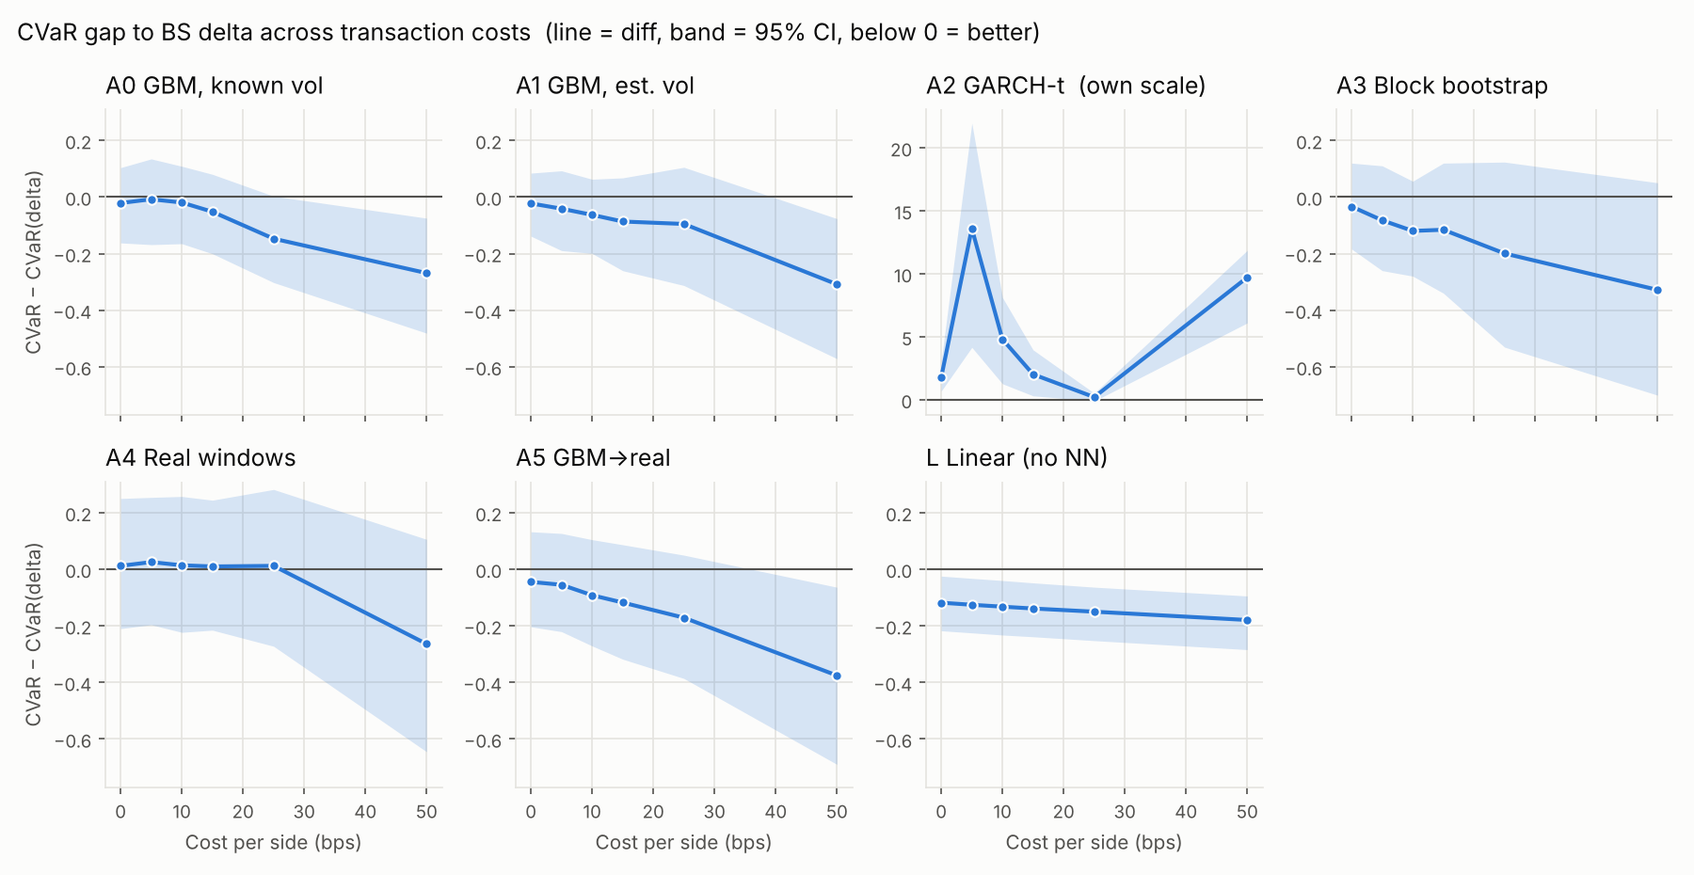
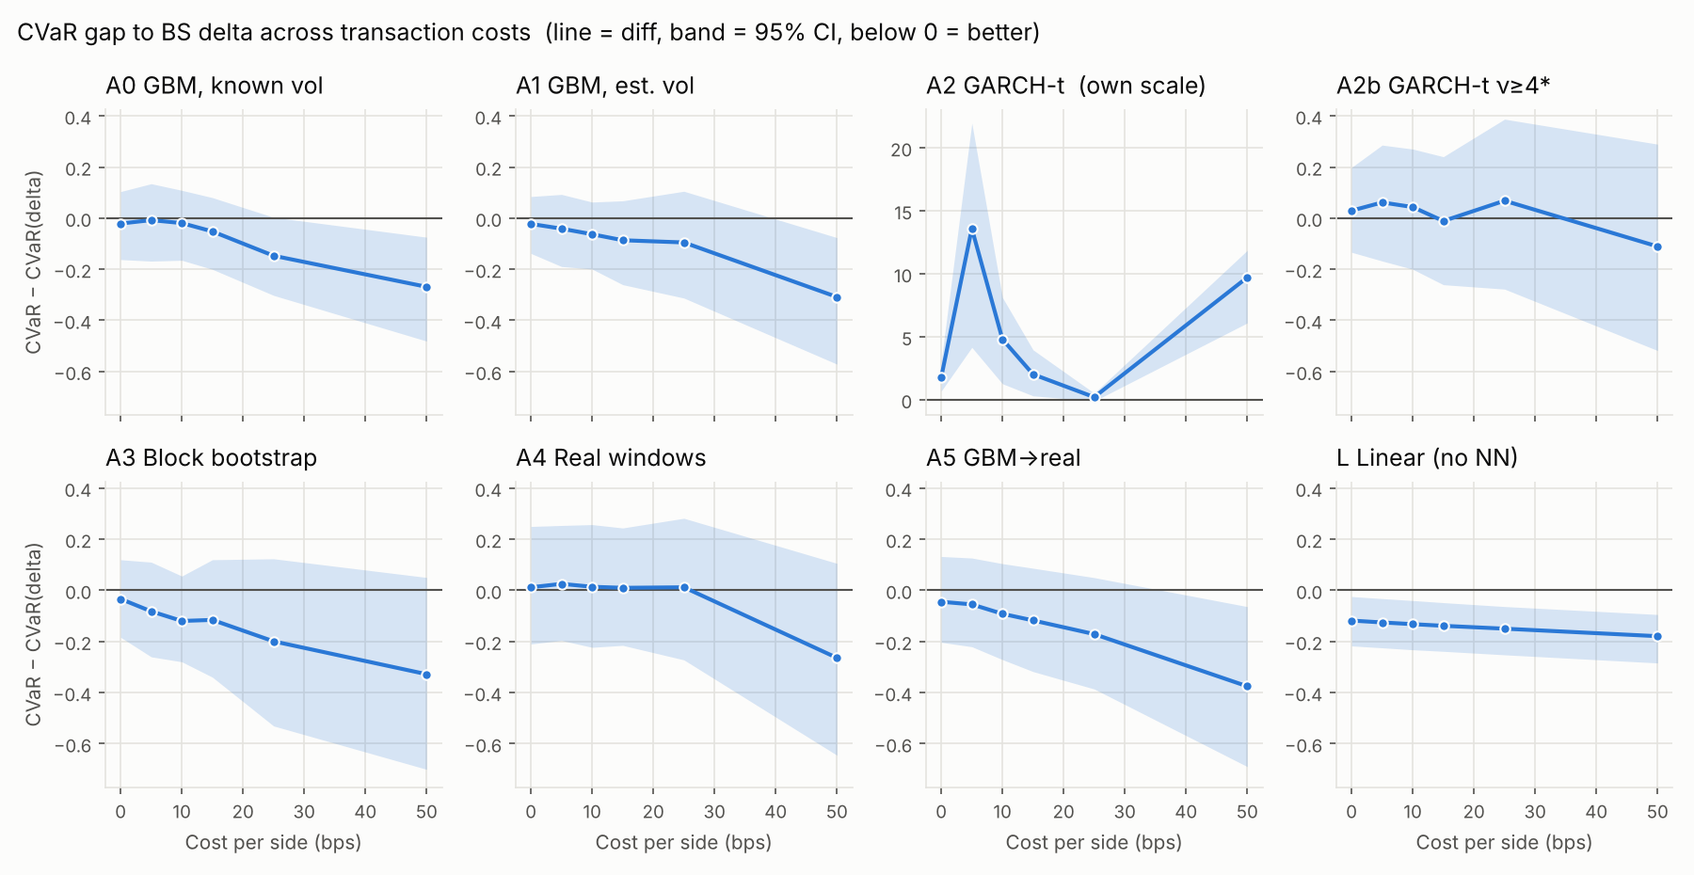
feat: A2b GARCH-t (nu >= 4) sensitivity arm, merged into training-data results
Post hoc, motivated only by the pre-year realism check (kurtosis 136 vs 6.7).
A1 rerun reproduces exactly; A2b is stable and ties BS delta at 15 bps.

Claude-Session: https://claude.ai/code/session_01Wsp5yzbyVWcP9FCYgqxdfC

diff --git a/src/deephedge/experiments/training_data_study.py b/src/deephedge/experiments/training_data_study.py
@@ -35,9 +35,13 @@ from deephedge.sim.generators import (
 )
 
 ARMS = ("A0_gbm_true_vol", "A1_gbm", "A2_garch_t", "A3_bootstrap", "A4_real", "A5_finetune")
+# Sensitivity arm added after the pre-registered run: GARCH-t with Student-t dof >= 4
+# (finite shock kurtosis), motivated only by the pre-year realism check.
+SENSITIVITY = ("A2b_garch_nu4",)
+ALL_ARMS = ARMS + SENSITIVITY
 BENCHMARKS = ("delta", "banded_delta", "no_hedge", "L_linear")
 K, T, HORIZON = 100.0, 21 / TRADING_DAYS, 21
-SYNTHETIC = ("A0_gbm_true_vol", "A1_gbm", "A2_garch_t", "A3_bootstrap")
+SYNTHETIC = ("A0_gbm_true_vol", "A1_gbm", "A2_garch_t", "A3_bootstrap", "A2b_garch_nu4")
 
 
 def _no_hedge(feats):
@@ -66,7 +70,7 @@ def _training_sets(f: dict, n_train: int, mean_block: float, seed: int) -> dict:
     real: Windows = f["real_train"]
     rets = {k: v for k, v in f["returns"].items() if len(v) >= N_DAYS}
     vols = real.trailing_vol
-    sets = {a: None for a in ARMS}
+    sets = {a: None for a in ALL_ARMS}
     if len(real) and len(vols):
         sig = rng.choice(vols, n_train)
         sets["A0_gbm_true_vol"] = (simulate_gbm_paths(100.0, 0.0, sig, T, HORIZON, n_train,
@@ -82,6 +86,9 @@ def _training_sets(f: dict, n_train: int, mean_block: float, seed: int) -> dict:
         if "_garch" not in f:                    # fit once per fold, reuse across seeds
             f["_garch"] = {k: fit_garch_t(v) for k, v in garch.items()}
         sets["A2_garch_t"] = windows_from_returns(_garch_draw(f, n_train, rng))
+        if "_garch4" not in f:
+            f["_garch4"] = {k: fit_garch_t(v, nu_min=4.0) for k, v in garch.items()}
+        sets["A2b_garch_nu4"] = windows_from_returns(_garch_draw(f, n_train, rng, key="_garch4"))
     return {a: _clean(v) for a, v in sets.items()}
 
 
@@ -137,7 +144,7 @@ def fold_realism(f: dict, sets: dict, n_train: int, mean_block: float, seed: int
     real_lr = _real_blocks(f["returns"])
     if len(real_lr):
         rows.append({"year": f["year"], "source": "real", **_realism(real_lr)})
-    for a in SYNTHETIC[1:]:                      # A0 has the same returns as A1 (GBM)
+    for a in SYNTHETIC[1:]:                      # A0 has the same returns as A1 (GBM); unrun arms are None
         if sets[a] is not None:
             rows.append({"year": f["year"], "source": a,
                          **_realism(_synthetic_lr(f, a, n_train, mean_block, seed))})
@@ -169,6 +176,7 @@ def run_training_data_study(
     n_boot: int = 2000,
     n_jobs: int | None = None,
     log=None,
+    arms=ARMS,
 ) -> dict:
     cfg = dict(epochs=epochs, lr=lr, batch_size=batch_size, finetune_epochs=finetune_epochs,
                finetune_lr=finetune_lr, layer_sizes=tuple(layer_sizes))
@@ -182,7 +190,7 @@ def run_training_data_study(
         test = f["test"]
         sets_by_seed = {s: _training_sets(f, n_train, mean_block, s) for s in seeds}
         first = sets_by_seed[seeds[0]]
-        unavailable = sorted(a for a in ARMS if first[a] is None)
+        unavailable = sorted(a for a in arms if first[a] is None)
         fold_sizes.append({"year": f["year"], "n_test": len(test), "n_real_train": len(f["real_train"]),
                            "n_stocks_returns": len(f["returns"]),
                            "n_stocks_garch": len(f.get("_garch", {})), "unavailable": unavailable})
@@ -200,11 +208,11 @@ def run_training_data_study(
                 bench.setdefault((name, cost), {})[fi] = pnl
             for s in seeds:
                 sets = sets_by_seed[s]
-                for a in ARMS:
+                for a in arms:
                     if a == "A5_finetune" or sets[a] is None:
                         continue
                     ft = sets["A5_finetune"] if a == "A1_gbm" else None
-                    job_seed = 10_000 * s + 100 * fi + ARMS.index(a)
+                    job_seed = 10_000 * s + 100 * fi + ALL_ARMS.index(a)
                     jobs.append((a, cost, job_seed, sets[a], ft, test.paths, test.trailing_vol, cfg))
                     keys.append((fi, cost, s))
     log(f"{len(jobs)} training jobs over {len(folds)} folds")
@@ -231,17 +239,17 @@ def _synthetic_lr(f, arm, n_train, mean_block, seed):
     rets = {k: v for k, v in f["returns"].items() if len(v) >= N_DAYS}
     if arm == "A3_bootstrap":
         return sample_mixture(rets, n_train, lambda r, k, g: stationary_bootstrap(r, k, N_DAYS, mean_block, g), rng)
-    return _garch_draw(f, n_train, rng)
+    return _garch_draw(f, n_train, rng, key="_garch4" if arm == "A2b_garch_nu4" else "_garch")
 
 
-def _garch_draw(f, n, rng):
+def _garch_draw(f, n, rng, key="_garch"):
     """GARCH-t paths per stock, started at that stock's sample variance.
 
     Starting at the sample variance (not the model's unconditional variance)
     keeps near-integrated fits (alpha + beta close to 1, where the unconditional
     variance explodes) on the scale the stock actually traded at.
     """
-    items = {k: (m, float(np.var(f["returns"][k]))) for k, m in f["_garch"].items()}
+    items = {k: (m, float(np.var(f["returns"][k]))) for k, m in f[key].items()}
     weights = {k: len(f["returns"][k]) for k in items}
     return sample_mixture(items, n, lambda mv, k, g: simulate_garch_t(mv[0], k, N_DAYS, g, h0=mv[1]),
                           rng, weights=weights)
@@ -267,7 +275,7 @@ def _assemble(folds, cost_grid, focus_cost, seeds, deep, bench, fold_sizes, real
     for (name, cost), by_fold in bench.items():
         p, m = pooled(by_fold)
         series[(name, cost)] = (p[None, :], m)
-    for arm in ARMS:
+    for arm in ALL_ARMS:
         for cost in cost_grid:
             per_seed = [deep.get((arm, cost, s)) for s in seeds]
             if any(x is None for x in per_seed):
@@ -283,7 +291,7 @@ def _assemble(folds, cost_grid, focus_cost, seeds, deep, bench, fold_sizes, real
         summary.append({"arm": arm, "cost": cost, "cvar_mean": float(cv.mean()),
                         "cvar_sd": float(cv.std(ddof=1)) if len(cv) > 1 else 0.0,
                         "mean": float(p.mean()), "n": int(m.sum()), "n_seeds": len(cv)})
-        if arm in ARMS or arm == "L_linear":
+        if arm in ALL_ARMS or arm == "L_linear":
             for vs in ("delta", "A1_gbm"):
                 if vs == arm or (vs, cost) not in series:
                     continue

diff --git a/src/deephedge/experiments/run_training_data.py b/src/deephedge/experiments/run_training_data.py
@@ -19,7 +19,7 @@ from deephedge.experiments.training_data_study import run_training_data_study
 
 NAMES = {
     "A0_gbm_true_vol": "A0 GBM, known vol", "A1_gbm": "A1 GBM, estimated vol",
-    "A2_garch_t": "A2 GARCH-t", "A3_bootstrap": "A3 Block bootstrap", "A4_real": "A4 Real windows",
+    "A2_garch_t": "A2 GARCH-t", "A2b_garch_nu4": "A2b GARCH-t, ν ≥ 4 (sensitivity)", "A3_bootstrap": "A3 Block bootstrap", "A4_real": "A4 Real windows",
     "A5_finetune": "A5 GBM → real fine-tune", "L_linear": "L Linear correction",
     "delta": "BS delta", "banded_delta": "Delta + band", "no_hedge": "No hedge",
 }
@@ -60,7 +60,7 @@ def write_tables(res, out: Path) -> str:
                              f"[{g['ci_low']:+.3f}, {g['ci_high']:+.3f}] | {g['p']:.3f} |")
     lines += ["", "## Realism of training data (mean over folds)", "",
               "| Source | Excess kurtosis | ACF of abs returns (lags 1–10) | Hill tail index |", "|---|---:|---:|---:|"]
-    for src in ("real", "A1_gbm", "A2_garch_t", "A3_bootstrap"):
+    for src in ("real", "A1_gbm", "A2_garch_t", "A2b_garch_nu4", "A3_bootstrap"):
         rows = [r for r in res["realism"] if r["source"] == src]
         if rows:
             m = lambda k: sum(r[k] for r in rows) / len(rows)
@@ -77,6 +77,19 @@ def write_tables(res, out: Path) -> str:
     return text
 
 
+def merge_results(base: dict, new: dict) -> dict:
+    """Add the rows of arms (and realism sources) that ``base`` does not have yet.
+
+    Rows already in ``base`` are kept as they are, so re-running a subset of arms
+    (e.g. A1 alongside a new sensitivity arm) never overwrites published numbers.
+    """
+    out = dict(base)
+    for key, field in (("summary", "arm"), ("significance", "arm"), ("by_year", "arm"), ("realism", "source")):
+        have = {r[field] for r in base[key]}
+        out[key] = base[key] + [r for r in new[key] if r[field] not in have]
+    return out
+
+
 def main(argv=None) -> dict:
     p = argparse.ArgumentParser(description="Which training data makes a better deep hedger?")
     p.add_argument("--data", default="data/raw/hk")
@@ -86,6 +99,8 @@ def main(argv=None) -> dict:
     p.add_argument("--n-jobs", type=int, default=None)
     p.add_argument("--quick", action="store_true")
     p.add_argument("--from-results", action="store_true", help="redraw tables/charts from results.pkl")
+    p.add_argument("--arms", default=None,
+                   help="comma-separated arms to run; new arms are merged into an existing results.pkl")
     args = p.parse_args(argv)
     out, figs = Path(args.out), Path(args.figures)
     out.mkdir(parents=True, exist_ok=True)
@@ -99,11 +114,16 @@ def main(argv=None) -> dict:
             kw.update(QUICK)
         if "years" in kw:
             kw["years"] = tuple(kw["years"])
+        if args.arms:
+            kw["arms"] = tuple(args.arms.split(","))
         t0 = time.time()
         res = run_training_data_study(load_closes(args.data), n_jobs=args.n_jobs,
                                       log=lambda m: print(f"[{time.time() - t0:6.0f}s] {m}", flush=True), **kw)
         res["runtime_s"] = time.time() - t0
-        (out / "results.pkl").write_bytes(pickle.dumps(res))
+        old = out / "results.pkl"
+        if args.arms and old.exists():
+            res = merge_results(pickle.loads(old.read_bytes()), res)
+        old.write_bytes(pickle.dumps(res))
     print(write_tables(res, out))
     from deephedge.plots.training_data_charts import CHARTS
     for name, fn in CHARTS.items():

diff --git a/src/deephedge/plots/training_data_charts.py b/src/deephedge/plots/training_data_charts.py
@@ -17,14 +17,14 @@ from matplotlib.colors import LinearSegmentedColormap, TwoSlopeNorm  # noqa: E40
 from deephedge.plots.real_charts import GRID, INK, INK2, NEUTRAL, SURFACE, _axes, _fig, _save  # noqa: E402
 
 BLUE, ORANGE, AQUA, VIOLET, RED = "#2a78d6", "#eb6834", "#1baf7a", "#6250d6", "#e34948"
-DEEP = ("A0_gbm_true_vol", "A1_gbm", "A2_garch_t", "A3_bootstrap", "A4_real", "A5_finetune")
+DEEP = ("A0_gbm_true_vol", "A1_gbm", "A2_garch_t", "A2b_garch_nu4", "A3_bootstrap", "A4_real", "A5_finetune")
 SHORT = {
     "A0_gbm_true_vol": "A0 GBM, known vol", "A1_gbm": "A1 GBM, est. vol", "A2_garch_t": "A2 GARCH-t",
-    "A3_bootstrap": "A3 Block bootstrap", "A4_real": "A4 Real windows", "A5_finetune": "A5 GBM→real",
+    "A2b_garch_nu4": "A2b GARCH-t ν≥4*", "A3_bootstrap": "A3 Block bootstrap", "A4_real": "A4 Real windows", "A5_finetune": "A5 GBM→real",
     "L_linear": "L Linear (no NN)", "delta": "BS delta", "banded_delta": "Delta + band", "no_hedge": "No hedge",
     "real": "Real data",
 }
-TICK = {"real": "Real", "A1_gbm": "A1 GBM", "A2_garch_t": "A2 GARCH", "A3_bootstrap": "A3 Bootstrap"}
+TICK = {"real": "Real", "A1_gbm": "A1 GBM", "A2_garch_t": "A2 GARCH", "A2b_garch_nu4": "A2b ν≥4", "A3_bootstrap": "A3 Boot."}
 DIVERGING = LinearSegmentedColormap.from_list("gap", [BLUE, "#f0efec", RED])
 
 
@@ -172,9 +172,9 @@ def chart_gap_by_year(res, path):
 
 
 def chart_realism(res, path):
-    sources = [s for s in ("real", "A1_gbm", "A2_garch_t", "A3_bootstrap")
+    sources = [s for s in ("real", "A1_gbm", "A2_garch_t", "A2b_garch_nu4", "A3_bootstrap")
                if any(r["source"] == s for r in res["realism"])]
-    color = {"real": INK, "A1_gbm": BLUE, "A2_garch_t": ORANGE, "A3_bootstrap": AQUA}
+    color = {"real": INK, "A1_gbm": BLUE, "A2_garch_t": ORANGE, "A2b_garch_nu4": VIOLET, "A3_bootstrap": AQUA}
     stats = [("excess_kurtosis", "Excess kurtosis of vol-scaled\nhedge-day returns (fat tails)"),
              ("acf_abs_1_10", "Autocorr. of |returns|, lags 1–10\n(volatility clustering)"),
              ("hill_index", "Hill tail index\n(lower = fatter tail)")]
@@ -193,14 +193,15 @@ def chart_realism(res, path):
         ax.grid(axis="x", visible=False)
     ax = axes[3]
     _axes(ax, f"Realism vs tail risk ({res['focus_cost']*1e4:.0f} bps)")
-    arm_of = {"real": "A4_real", "A1_gbm": "A1_gbm", "A2_garch_t": "A2_garch_t", "A3_bootstrap": "A3_bootstrap"}
+    arm_of = {"real": "A4_real", "A1_gbm": "A1_gbm", "A2_garch_t": "A2_garch_t", "A2b_garch_nu4": "A2b_garch_nu4",
+              "A3_bootstrap": "A3_bootstrap"}
     for s in sources:
         r = _row(res, "summary", arm=arm_of[s], cost=res["focus_cost"])
         if r is None:
             continue
         x = means["hill_index"][s]
         ax.plot(x, r["cvar_mean"], "o", ms=9, color=color[s], markeredgecolor=SURFACE, markeredgewidth=2)
-        off = {"real": (8, 6), "A3_bootstrap": (8, -12)}.get(s, (8, 6))
+        off = {"real": (10, -1), "A2b_garch_nu4": (4, 18), "A3_bootstrap": (8, -14)}.get(s, (8, 6))
         ax.annotate(SHORT[arm_of[s]], (x, r["cvar_mean"]), xytext=off, textcoords="offset points",
                     ha="right" if off[0] < 0 else "left", fontsize=8, color=INK2)
     ax.set_xlabel("Hill tail index of training returns (lower = fatter)")

diff --git a/src/deephedge/sim/generators.py b/src/deephedge/sim/generators.py
@@ -80,16 +80,16 @@ def garch_conditional_variance(model: GarchT, r: np.ndarray) -> np.ndarray:
     return np.maximum(h, 1e-12)
 
 
-def _unpack(theta: np.ndarray) -> GarchT:
+def _unpack(theta: np.ndarray, nu_min: float = 2.05) -> GarchT:
     mu, a, b, c, d = np.clip(theta, -50, 50)
     persistence = 0.9999 / (1 + np.exp(-b))
     share = 1 / (1 + np.exp(-c))
     return GarchT(mu=mu, omega=np.exp(a), alpha=persistence * share,
-                  beta=persistence * (1 - share), nu=2.05 + np.exp(d))
+                  beta=persistence * (1 - share), nu=nu_min + np.exp(d))
 
 
-def _neg_loglik(theta: np.ndarray, r: np.ndarray) -> float:
-    m = _unpack(theta)
+def _neg_loglik(theta: np.ndarray, r: np.ndarray, nu_min: float = 2.05) -> float:
+    m = _unpack(theta, nu_min)
     h = garch_conditional_variance(m, r)
     e2 = (r - m.mu) ** 2
     nu = m.nu
@@ -98,17 +98,21 @@ def _neg_loglik(theta: np.ndarray, r: np.ndarray) -> float:
     return -float(ll.sum())
 
 
-def fit_garch_t(r: np.ndarray) -> GarchT:
-    """Maximum-likelihood GARCH(1,1)-t fit (needs at least 500 returns)."""
+def fit_garch_t(r: np.ndarray, nu_min: float = 2.05) -> GarchT:
+    """Maximum-likelihood GARCH(1,1)-t fit (needs at least 500 returns).
+
+    ``nu_min`` is the lowest allowed Student-t degrees of freedom; 4 keeps the
+    shock kurtosis finite (used by the A2b sensitivity arm).
+    """
     r = np.asarray(r, dtype=float)
     if len(r) < MIN_GARCH_OBS:
         raise ValueError(f"GARCH fit needs at least {MIN_GARCH_OBS} returns, got {len(r)}")
     var = r.var()
     p0, share0 = 0.95, 0.1 / 0.95
     theta0 = np.array([r.mean(), np.log(var * (1 - p0)), np.log(p0 / (0.9999 - p0)),
-                       np.log(share0 / (1 - share0)), np.log(8.0 - 2.05)])
-    res = minimize(_neg_loglik, theta0, args=(r,), method="L-BFGS-B")
-    return _unpack(res.x)
+                       np.log(share0 / (1 - share0)), np.log(max(8.0 - nu_min, 0.5))])
+    res = minimize(_neg_loglik, theta0, args=(r, nu_min), method="L-BFGS-B")
+    return _unpack(res.x, nu_min)
 
 
 def simulate_garch_t(model: GarchT, n: int, n_days: int, rng: np.random.Generator,

diff --git a/tests/test_run_training_data.py b/tests/test_run_training_data.py
@@ -13,3 +13,14 @@ def test_cli_quick_writes_tables_and_charts(tmp_path):
         assert (figs / name).stat().st_size > 10_000
     # redraw from the saved results without retraining
     main(["--from-results", "--out", str(out), "--figures", str(figs)])
+
+
+def test_merge_keeps_existing_rows_and_adds_new_arm():
+    from deephedge.experiments.run_training_data import merge_results
+    base = {"summary": [{"arm": "A1_gbm", "v": 1}], "significance": [], "by_year": [],
+            "realism": [{"source": "real", "v": 1}]}
+    new = {"summary": [{"arm": "A1_gbm", "v": 2}, {"arm": "A2b_garch_nu4", "v": 3}], "significance": [],
+           "by_year": [], "realism": [{"source": "real", "v": 2}, {"source": "A2b_garch_nu4", "v": 3}]}
+    m = merge_results(base, new)
+    assert m["summary"] == [{"arm": "A1_gbm", "v": 1}, {"arm": "A2b_garch_nu4", "v": 3}]
+    assert [r["v"] for r in m["realism"]] == [1, 3]

diff --git a/tests/test_generators.py b/tests/test_generators.py
@@ -65,3 +65,9 @@ def test_mixture_weights():
     out = sample_mixture(per, 5000, lambda x, n, g: np.tile(x[:84], (n, 1)), rng)
     assert out.shape == (5000, 84)
     assert np.isclose((out[:, 0] == 1).mean(), 0.9, atol=0.02)
+
+
+def test_garch_nu_floor():
+    m = GarchT(mu=0.0, omega=4e-6, alpha=0.1, beta=0.85, nu=2.6)
+    r = simulate_garch_t(m, 1, 4000, np.random.default_rng(6))[0]
+    assert fit_garch_t(r, nu_min=4.0).nu >= 4.0

diff --git a/README.md b/README.md
@@ -86,13 +86,14 @@ Full tables: [`results/real/real_summary.md`](results/real/real_summary.md) · s
 ## Part 3 — Which training data makes a better hedger? (walk-forward, 3 seeds)
 
 Pre-registered design: [`docs/superpowers/specs/2026-11-15-training-data-study-design.md`](docs/superpowers/specs/2026-11-15-training-data-study-design.md).
-Same 2,650 real test windows (2016–2026), but now **walk-forward**: for each test year, every model may only use prices dated before 1 January of that year. 6 training arms × 6 costs × 3 seeds × 11 years = 990 training jobs (~40 min on 2 CPUs).
+Same 2,650 real test windows (2016–2026), but now **walk-forward**: for each test year, every model may only use prices dated before 1 January of that year. 6 training arms × 6 costs × 3 seeds × 11 years = 990 training jobs (~40 min on 2 CPUs), plus one sensitivity arm.
 
 | Arm | Training data |
 |---|---|
 | A0 | GBM, trader knows the true vol (the Part 2 method) |
 | A1 | GBM, trader *estimates* vol from 63 warm-up days, as on real data |
 | A2 | GARCH(1,1) with Student-t shocks, fitted per stock |
+| A2b | *Sensitivity, added after the main run:* A2 with Student-t ν ≥ 4 (finite tail kurtosis) |
 | A3 | Stationary block bootstrap of each stock's real returns |
 | A4 | Real overlapping windows only |
 | A5 | A1, then fine-tuned on A4 |
@@ -108,6 +109,7 @@ Same 2,650 real test windows (2016–2026), but now **walk-forward**: for each t
 | A0 GBM, known vol | −0.05 | [−0.20, +0.08] | +0.03 |
 | A1 GBM, est. vol | −0.09 | [−0.26, +0.07] | — |
 | A2 GARCH-t | +2.02 | [+0.31, +3.96] | +2.11 (worse) |
+| A2b GARCH-t, ν ≥ 4* | −0.01 | [−0.26, +0.24] | +0.08 |
 | A3 Block bootstrap | −0.12 | [−0.34, +0.12] | −0.03 |
 | A4 Real windows | +0.01 | [−0.22, +0.24] | +0.10 |
 | A5 GBM → real | −0.12 | [−0.32, +0.09] | −0.03 |
@@ -118,7 +120,9 @@ What this says, plainly:
 2. **The simple linear correction L is the only method that beats delta significantly at 0–25 bps**, echoing Ruf & Wang (2022): a regression on delta matches or beats the network.
 3. **H3 (gain grows with cost) holds:** at 50 bps A0, A1 and A5 beat delta significantly (−0.27, −0.31, −0.38).
 4. **More realistic training data did not help (H1 not supported).** The block bootstrap is the most realistic generator (below) and among the best arms, but not significantly better than plain GBM. Training on real windows alone (A4) is no better than delta, even in later years with 3× more data.
-5. **GARCH-t training is unstable:** fitted to pre-year data it produces far fatter tails than reality (kurtosis 136 vs 6.7), and some seeds blow up (2022 especially).
+5. **GARCH-t training is unstable:** fitted to pre-year data it produces far fatter tails than reality (kurtosis 136 vs 6.7), and some seeds blow up (2022 especially). The sensitivity arm A2b (ν ≥ 4, kurtosis 24) trains stably but only ties delta (−0.01), so a better GARCH does not change the conclusion.
+
+\* A2b was added after seeing the main results. Its only justification is the pre-year realism check, so treat it as a sensitivity check, not a pre-registered arm.
 
 ![Gap by cost](figures/training_data/td_gap_by_cost.png)
 ![Gap by year](figures/training_data/td_gap_by_year.png)

diff --git a/results/training_data/summary.md b/results/training_data/summary.md
@@ -5,6 +5,7 @@
 | A0 GBM, known vol | 5.865 ± 0.034 | 6.033 ± 0.062 | 6.177 ± 0.093 | 6.300 ± 0.071 | 6.518 ± 0.056 | 7.197 ± 0.067 |
 | A1 GBM, estimated vol | 5.863 ± 0.138 | 6.000 ± 0.105 | 6.133 ± 0.058 | 6.266 ± 0.032 | 6.570 ± 0.094 | 7.157 ± 0.212 |
 | A2 GARCH-t | 7.672 ± 1.485 | 19.637 ± 23.285 | 11.000 ± 8.304 | 8.374 ± 3.590 | 6.873 ± 0.313 | 17.173 ± 16.766 |
+| A2b GARCH-t, ν ≥ 4 (sensitivity) | 5.915 ± 0.197 | 6.103 ± 0.148 | 6.240 ± 0.123 | 6.341 ± 0.081 | 6.734 ± 0.093 | 7.355 ± 0.166 |
 | A3 Block bootstrap | 5.852 ± 0.049 | 5.959 ± 0.171 | 6.077 ± 0.048 | 6.237 ± 0.059 | 6.466 ± 0.109 | 7.137 ± 0.148 |
 | A4 Real windows | 5.898 ± 0.050 | 6.067 ± 0.108 | 6.210 ± 0.071 | 6.362 ± 0.054 | 6.678 ± 0.059 | 7.201 ± 0.075 |
 | A5 GBM → real fine-tune | 5.841 ± 0.138 | 5.986 ± 0.135 | 6.105 ± 0.084 | 6.235 ± 0.113 | 6.494 ± 0.093 | 7.090 ± 0.072 |
@@ -59,6 +60,12 @@
 | A4 Real windows | 50 | -0.264 | [-0.645, +0.106] | 0.084 |
 | A5 GBM → real fine-tune | 50 | -0.375 | [-0.690, -0.063] | 0.010 |
 | L Linear correction | 50 | -0.179 | [-0.284, -0.094] | 0.000 |
+| A2b GARCH-t, ν ≥ 4 (sensitivity) | 0 | +0.029 | [-0.134, +0.198] | 0.636 |
+| A2b GARCH-t, ν ≥ 4 (sensitivity) | 5 | +0.062 | [-0.168, +0.286] | 0.700 |
+| A2b GARCH-t, ν ≥ 4 (sensitivity) | 10 | +0.043 | [-0.200, +0.270] | 0.632 |
+| A2b GARCH-t, ν ≥ 4 (sensitivity) | 15 | -0.011 | [-0.260, +0.240] | 0.456 |
+| A2b GARCH-t, ν ≥ 4 (sensitivity) | 25 | +0.068 | [-0.278, +0.387] | 0.662 |
+| A2b GARCH-t, ν ≥ 4 (sensitivity) | 50 | -0.111 | [-0.518, +0.290] | 0.292 |
 
 ## CVaR difference vs A1 GBM, estimated vol (negative = less tail risk), month-clustered 95% CI
 
@@ -100,6 +107,12 @@
 | A4 Real windows | 50 | +0.044 | [-0.236, +0.325] | 0.636 |
 | A5 GBM → real fine-tune | 50 | -0.067 | [-0.285, +0.150] | 0.284 |
 | L Linear correction | 50 | +0.129 | [-0.071, +0.338] | 0.887 |
+| A2b GARCH-t, ν ≥ 4 (sensitivity) | 0 | +0.052 | [-0.088, +0.198] | 0.758 |
+| A2b GARCH-t, ν ≥ 4 (sensitivity) | 5 | +0.103 | [-0.109, +0.328] | 0.826 |
+| A2b GARCH-t, ν ≥ 4 (sensitivity) | 10 | +0.106 | [-0.080, +0.298] | 0.869 |
+| A2b GARCH-t, ν ≥ 4 (sensitivity) | 15 | +0.075 | [-0.117, +0.264] | 0.783 |
+| A2b GARCH-t, ν ≥ 4 (sensitivity) | 25 | +0.163 | [-0.061, +0.375] | 0.927 |
+| A2b GARCH-t, ν ≥ 4 (sensitivity) | 50 | +0.198 | [-0.063, +0.477] | 0.919 |
 
 ## Realism of training data (mean over folds)
 
@@ -108,6 +121,7 @@
 | Real (pre-year) | 6.69 | 0.039 | 3.48 |
 | A1 GBM, estimated vol | 0.11 | -0.012 | 6.93 |
 | A2 GARCH-t | 135.98 | 0.113 | 3.19 |
+| A2b GARCH-t, ν ≥ 4 (sensitivity) | 24.33 | 0.066 | 3.31 |
 | A3 Block bootstrap | 7.74 | 0.043 | 3.41 |
 
 ## Folds

diff --git a/paper/outline.md b/paper/outline.md
@@ -36,7 +36,8 @@ Further findings:
 - The earlier single-split, single-seed result (deep − delta = −0.25 at 15 bps, significant) shrinks
   to −0.05 [−0.20, +0.08] under walk-forward and 3 seeds. Seed sd (0.03–0.11) is the size of the effect.
 - Realism: block bootstrap matches real tails and clustering best (kurtosis 7.7, Hill 3.4, ACF 0.04);
-  GBM has none (0.1, 6.9, −0.01); GARCH-t overshoots badly (136, 3.2, 0.11) and makes training unstable.
+  GBM has none (0.1, 6.9, −0.01); GARCH-t overshoots badly (136, 3.2, 0.11) and makes training unstable;
+  with ν ≥ 4 (A2b, post hoc) it is closer (24, 3.3, 0.07) and stable, but no better than delta.
   Realism did not translate into better hedging beyond noise.
 - Stability: gaps vary in sign year to year for every deep arm; L is negative in 10 of 11 years.
 - Data quantity: A4's gap shows no trend with 22k → 72k real training windows.
@@ -44,7 +45,7 @@ Further findings:
 Figures: `figures/training_data/td_*.png`.
 
 ## 5. Robustness / to do before submission
-- GARCH-t variant with a tail floor (decision pending)
+- Done: sensitivity arm A2b (GARCH-t with ν ≥ 4). Stable, kurtosis 24, CVaR 6.34 at 15 bps, vs delta −0.01 [−0.26, +0.24]. The conclusion is unchanged. Label it as post hoc in the paper.
 - More seeds (5–10) for the primary comparison; Holm correction across arms.
 - Hull & White (2017) minimum-variance delta as a second linear benchmark (reference to verify).
 
